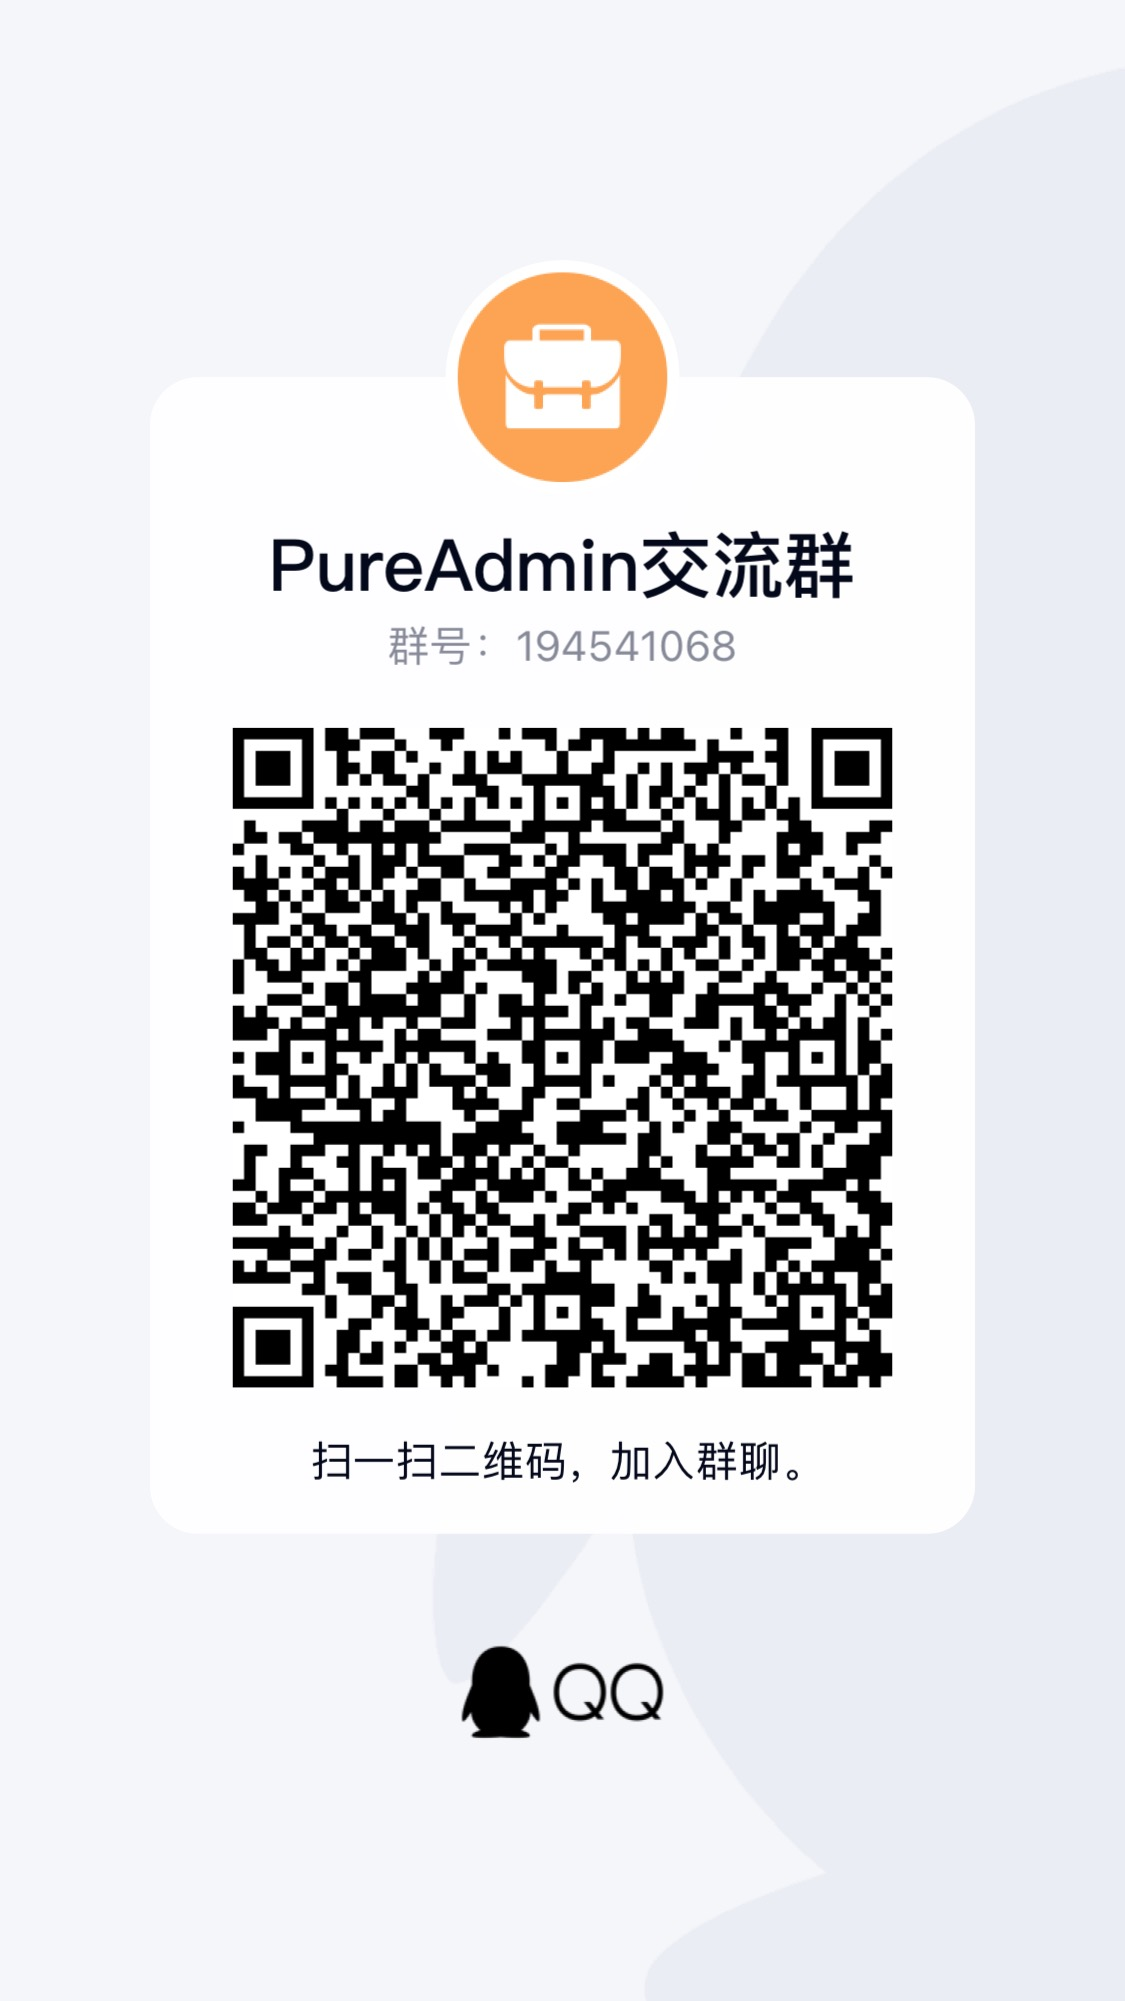
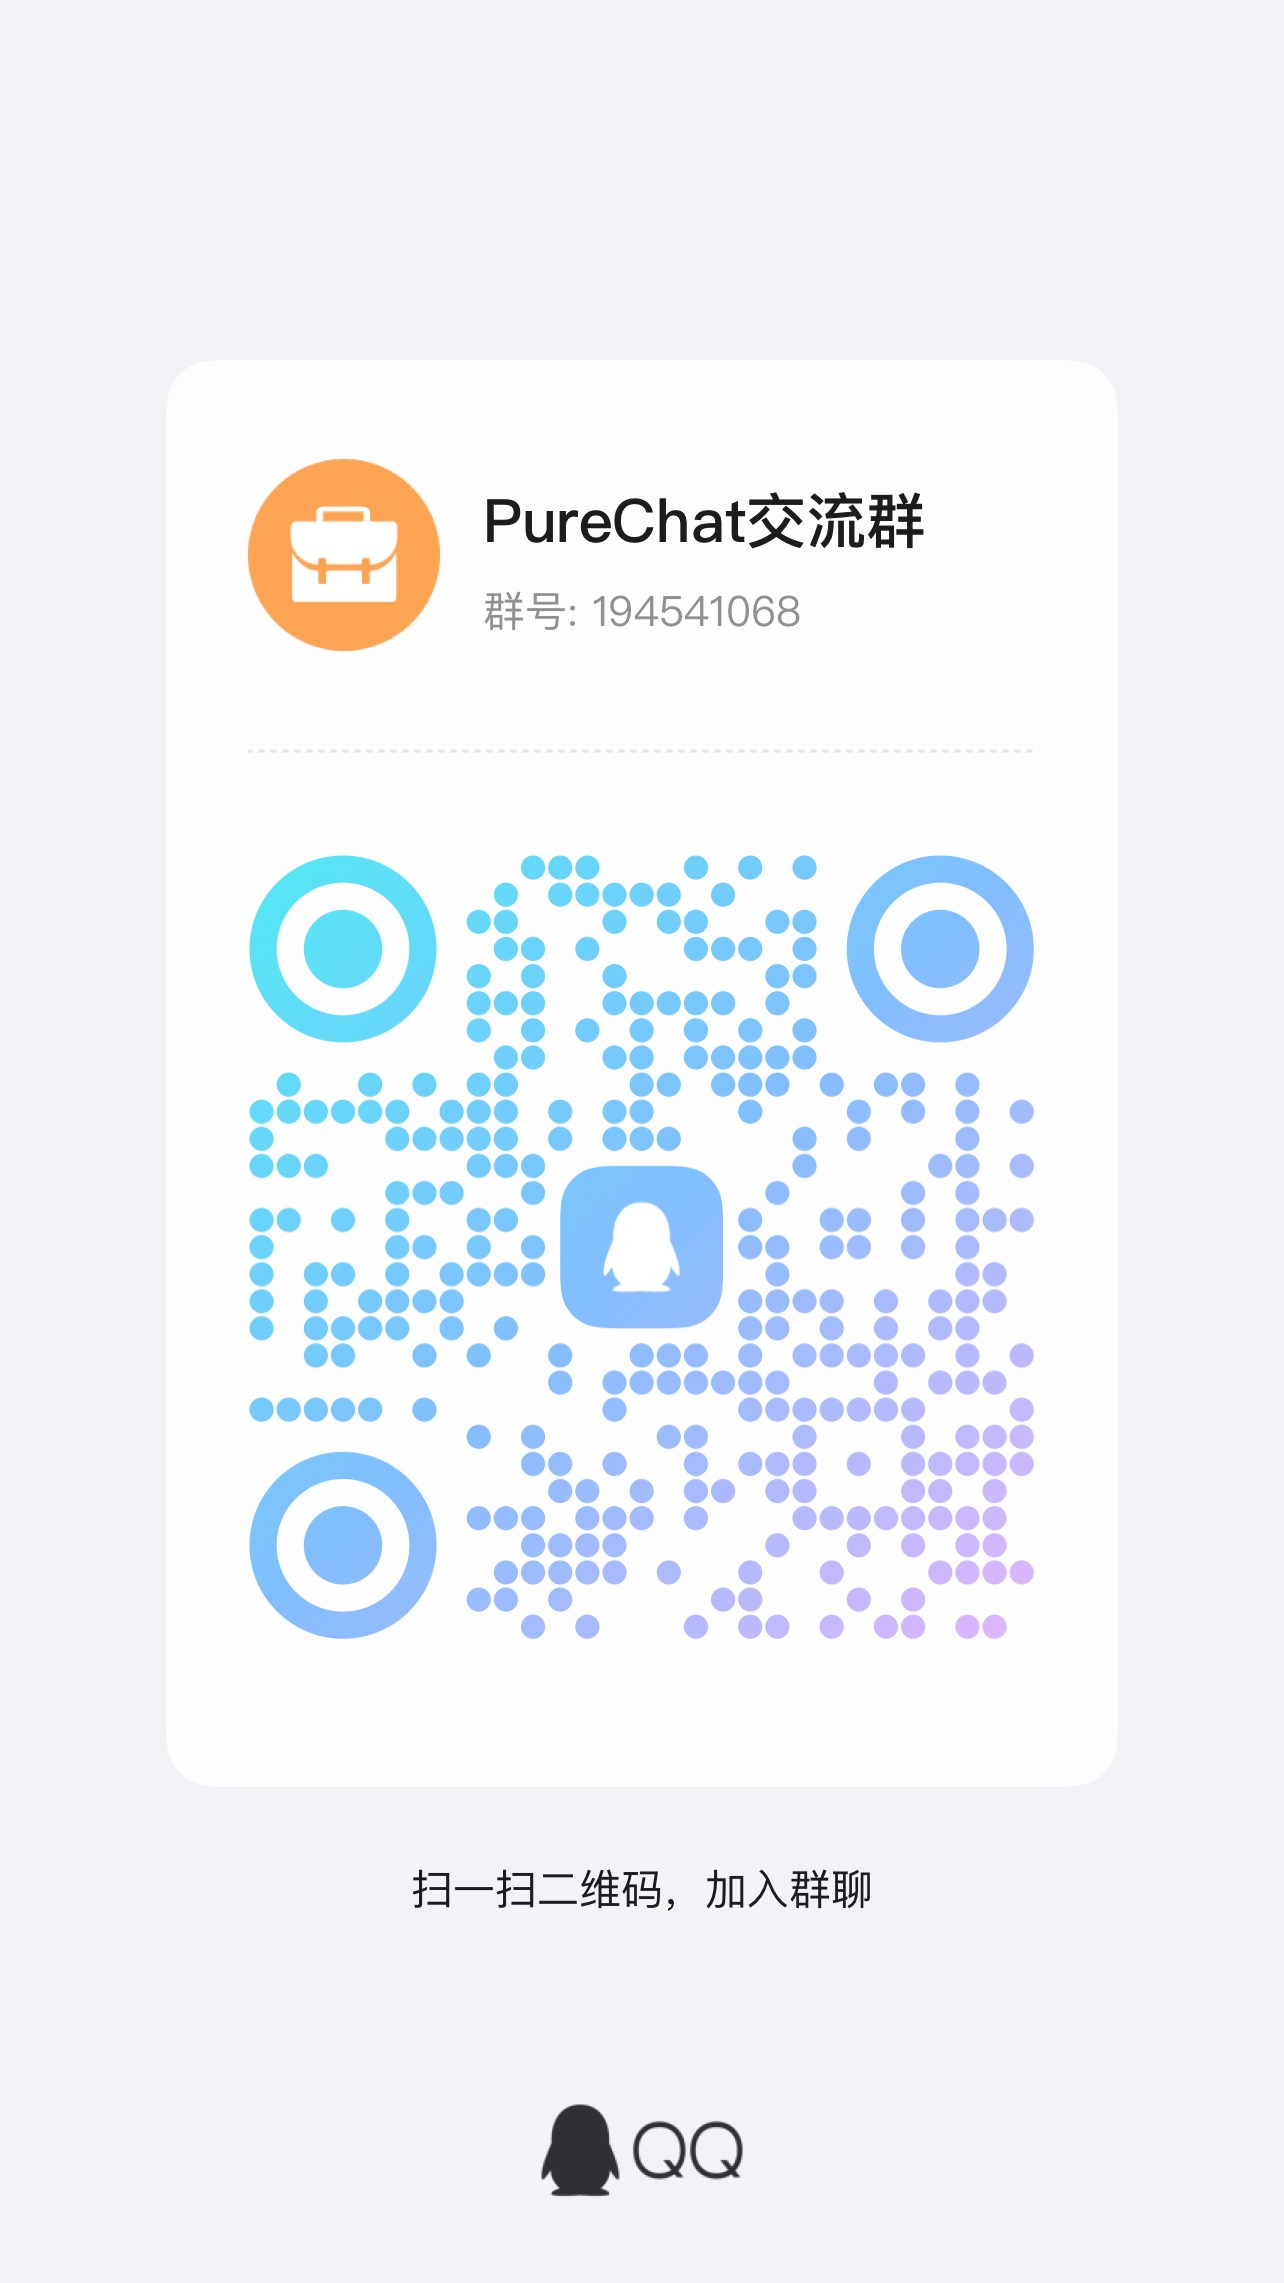
update: 优化样式及增加群聊链接

Changed region(s): [[0.1867, 0.1239, 0.8089, 0.7436], [0.3111, 0.8056, 0.6844, 0.8676], [0.4044, 0.8986, 0.5911, 0.9605]]

diff --git a/src/views/chatStudio/chat/GroupDetails.vue b/src/views/chatStudio/chat/GroupDetails.vue
@@ -4,7 +4,7 @@
     :title="$t('group.GroupDetails')"
     size="360px"
     :modal="true"
-    modal-class="drawer-group"
+    modal-class="group-drawer-modal"
     :before-close="handleClose"
     :close-on-press-escape="true"
     :append-to-body="false"
@@ -314,6 +314,9 @@ watch(currentConversation, (data) => {
 </script>
 
 <style lang="scss" scoped>
+:global(.group-drawer-modal) {
+  background-color: rgba(255, 255, 255, 0) !important;
+}
 :deep(.el-divider) {
   margin: 0;
 }

diff --git a/src/styles/element.scss b/src/styles/element.scss
@@ -2,16 +2,13 @@
   margin: 0 !important;
 }
 
-.el-overlay-dialog {
-  // backdrop-filter: blur(2px);
-}
-
 .el-popper__arrow {
   display: none;
 }
 
 .el-drawer {
   -webkit-app-region: no-drag;
+  border-radius: 6px 0 0 6px;
 }
 
 .el-message {
@@ -22,12 +19,4 @@
   width: 320px !important;
   padding: 0 !important;
   border: none !important;
-}
-
-.drawer-group {
-  background-color: rgba(255, 255, 255, 0) !important;
-
-  .el-drawer {
-    border-radius: 5px 0 0 5px;
-  }
 }

diff --git a/public/log.js b/public/log.js
@@ -8,3 +8,7 @@ console.log(
   "line-height: 30px"
 );
 console.log("欢迎给我发送邮件交流: %c2607881950@qq.com", "line-height: 30px; color: red");
+console.log(
+  "点击链接加入群聊【PureChat交流群】：%chttps://qm.qq.com/q/kNp1soa8W4",
+  "line-height: 30px; color: red"
+);

diff --git a/src/views/chatStudio/chat/Chatwin.vue b/src/views/chatStudio/chat/Chatwin.vue
@@ -208,10 +208,6 @@ const handleCustomData = (data) => {
   }
 };
 
-const handleMenuOptions = (item) => {
-  const { type, isRevoked, payload } = item;
-};
-
 const handleSelect = (e, item, type = "initial") => {
   // tip消息 撤回消息 抖动消息
   if (

diff --git a/src/styles/contextmenu.scss b/src/styles/contextmenu.scss
@@ -1,4 +1,6 @@
 .v-contextmenu {
+  border: 1px solid var(--color-border-default);
+
   .v-contextmenu-item--hover {
     background: #f6f7f8 !important;
   }
